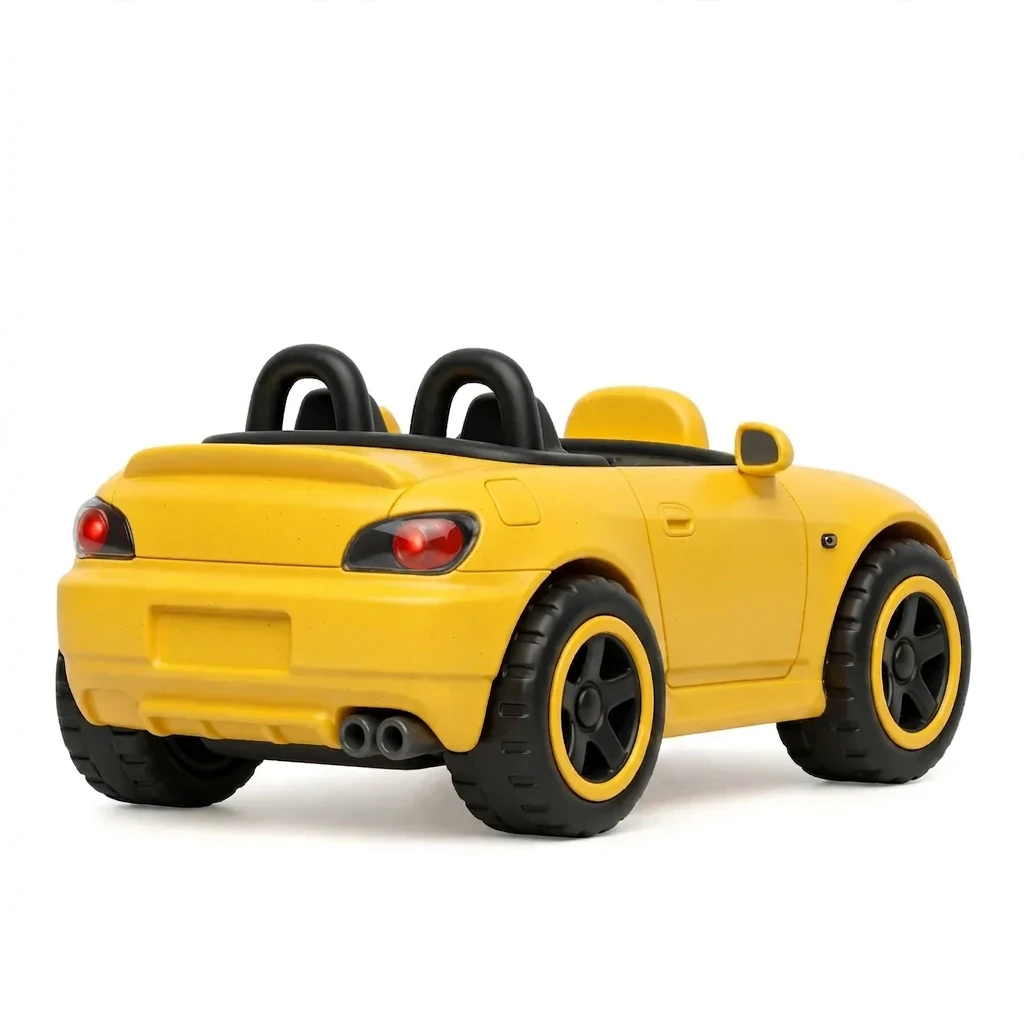
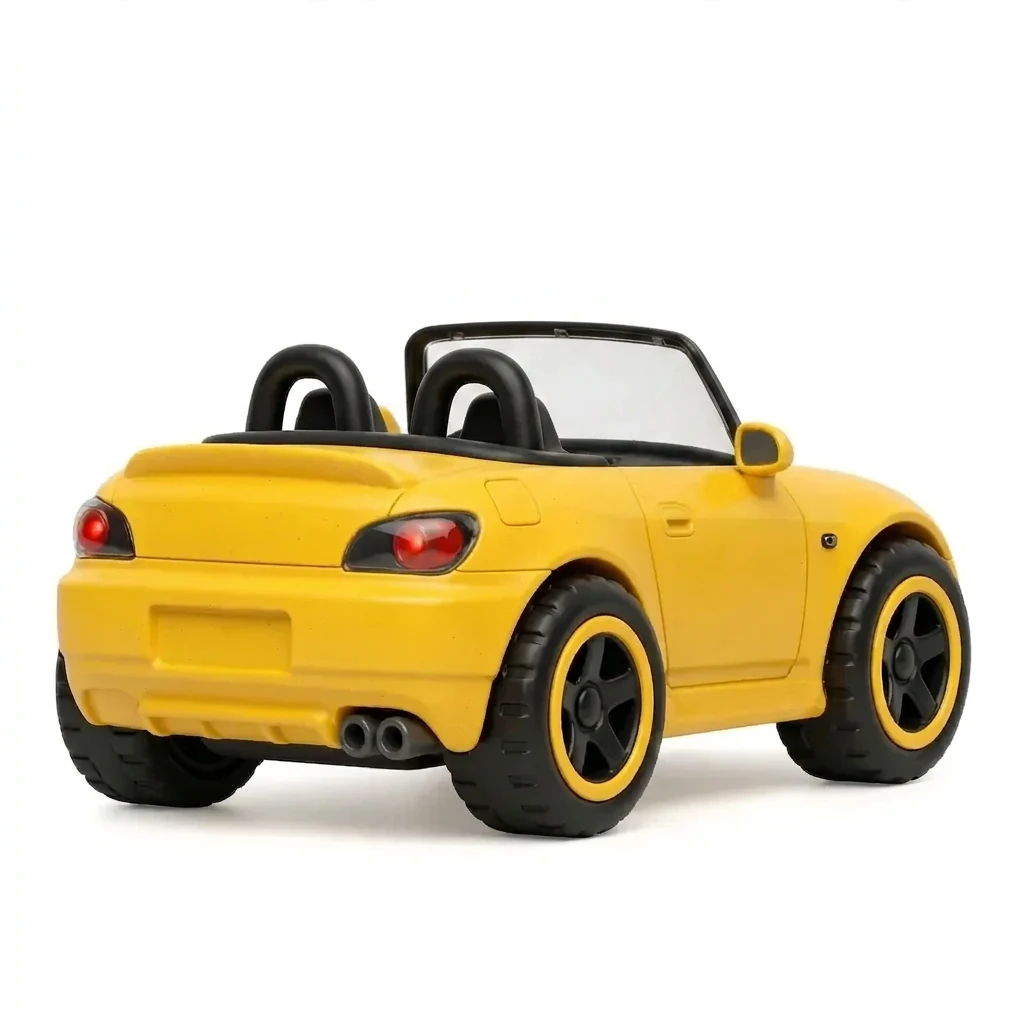
Precios nuevos, dorado garantizado en el pack completo, poster en hero escritorio y antes de FAQ en movil, R34 reencuadrado y parabrisas del S2000

Changed region(s): [[0.375, 0.3125, 0.7188, 0.4688], [0.4375, 0.375, 0.4688, 0.4375]]

diff --git a/public/index.html b/public/index.html
@@ -4,7 +4,7 @@
 <meta charset="UTF-8">
 <meta name="viewport" content="width=device-width, initial-scale=1, viewport-fit=cover">
 <title>SSCARS Garage Collections · Leyendas JDM · 15 figuras de colección</title>
-<meta name="description" content="Colección limitada de 15 figuras JDM en resina a color, 7 cm. Caja sorpresa sin repetidos dentro del pack y versión Gold Chrome secreta 1/500. Desde 29,90 € con envío gratuito.">
+<meta name="description" content="Colección limitada de 15 figuras JDM en resina a color, 7 cm. Caja sorpresa sin repetidos dentro del pack y versión Gold Chrome secreta 1/500. Desde 24,95 € con envío gratuito.">
 <link rel="canonical" href="https://sscarsgarage.roadshop.online/">
 <meta name="theme-color" content="#FFFFFF">
 <meta name="robots" content="index,follow">
@@ -12,7 +12,7 @@
 <meta property="og:locale" content="es_ES">
 <meta property="og:site_name" content="SSCARS Garage Collections">
 <meta property="og:title" content="Leyendas JDM · 15 figuras de colección">
-<meta property="og:description" content="Caja sorpresa de figuras JDM en resina a color. Sin repetidos dentro del pack. Gold Chrome 1/500. Desde 29,90 €.">
+<meta property="og:description" content="Caja sorpresa de figuras JDM en resina a color. Sin repetidos dentro del pack. Gold Chrome 1/500. Desde 24,95 €.">
 <meta property="og:url" content="https://sscarsgarage.roadshop.online/">
 <meta property="og:image" content="https://sscarsgarage.roadshop.online/images/r34-front.webp">
 <meta name="twitter:card" content="summary_large_image">
@@ -310,6 +310,19 @@ footer img.flogo{width:120px;margin:0 auto 20px}
   .hero .l2{font-size:clamp(37px,12.4vw,56px)}
   .hero .l2::after{height:8px;margin-top:12px}
 }
+
+/* ---- poster del hero: solo escritorio ---- */
+.hbody{display:grid;grid-template-columns:minmax(0,1fr);gap:26px}
+.hero-art{display:none}
+@media(min-width:1000px){
+  .hbody{grid-template-columns:minmax(0,1fr) 330px;gap:52px;align-items:start}
+  .hero-art{display:block}
+  .hero-art img{width:100%;height:auto;border-radius:22px;box-shadow:0 24px 60px rgba(0,0,0,.18)}
+}
+/* ---- poster en movil: antes de preguntas frecuentes ---- */
+.poster-mov{padding:0 0 clamp(40px,7vw,60px)}
+.poster-mov img{width:100%;max-width:520px;margin:0 auto;border-radius:22px;box-shadow:0 18px 44px rgba(0,0,0,.16)}
+@media(min-width:1000px){.poster-mov{display:none}}
 </style>
 </head>
 <body>
@@ -362,6 +375,8 @@ footer img.flogo{width:120px;margin:0 auto 20px}
 
       <h1><span class="l1">Leyendas JDM</span><span class="l2">15 iconos únicos</span></h1>
 
+      <div class="hbody">
+        <div>
       <p class="sub">Colección limitada y exclusiva de los deportivos más legendarios e icónicos de la cultura JDM motorsport. Compra tu caja sorpresa y completa esta colección única.</p>
 
       <div class="hctas">
@@ -375,6 +390,11 @@ footer img.flogo{width:120px;margin:0 auto 20px}
         <li><svg viewBox="0 0 24 24" aria-hidden="true"><path d="M12 2 15 9l7 .6-5.3 4.6L18.3 21 12 17.3 5.7 21l1.6-6.8L2 9.6 9 9z"/></svg><span><b>Gold Chrome</b> secreto, 1 de cada 500</span></li>
         <li><svg viewBox="0 0 24 24" aria-hidden="true"><rect x="4" y="10" width="16" height="11" rx="2"/><path d="M8 10V7a4 4 0 0 1 8 0v3"/></svg><span><b>Pago seguro</b> con Stripe</span></li>
       </ul>
+        </div>
+        <div class="hero-art">
+          <img src="images/poster-r34.webp" width="507" height="900" alt="SSCARS Garage Collections" loading="eager">
+        </div>
+      </div>
     </div>
   </section>
 
@@ -476,7 +496,7 @@ footer img.flogo{width:120px;margin:0 auto 20px}
       <div class="goldrow">
         <div>
           <div class="g1">Gold Chrome</div>
-          <p class="g2" style="margin:6px 0 0">Cualquiera de los 15 puede aparecer en dorado cromado. Sustituye a la versión en color y no está garantizado en ningún pack: es puro azar.</p>
+          <p class="g2" style="margin:6px 0 0">Cualquiera de los 15 puede aparecer en dorado cromado. Sustituye a la versión en color y es puro azar en las cajas sueltas y en los packs de 3 y 6. La única excepción es el pack de colección completa, que garantiza al menos uno.</p>
         </div>
         <div style="text-align:right"><div class="g3">0,2%</div><div class="tier-s" style="color:#888">1 de cada 500</div></div>
       </div>
@@ -499,6 +519,11 @@ footer img.flogo{width:120px;margin:0 auto 20px}
     </div>
   </section>
 
+  <!-- ============ POSTER (solo movil) ============ -->
+  <section class="poster-mov">
+    <div class="wrap"><img src="images/poster-r34.webp" width="507" height="900" alt="SSCARS Garage Collections" loading="lazy"></div>
+  </section>
+
   <!-- ============ FAQ ============ -->
   <section id="faq">
     <div class="wrap">
@@ -507,7 +532,7 @@ footer img.flogo{width:120px;margin:0 auto 20px}
       <div style="margin-top:24px">
         <details open><summary>¿Puedo repetir modelo?</summary><p>Dentro del mismo pack no hay repetidos. Entre packs diferentes podrías repetir, pero el sistema intenta minimizarlo. La versión Gold Chrome sustituye a la de color.</p></details>
         <details><summary>¿Puedo elegir qué figura quiero?</summary><p>No, y esa es la gracia. El modelo se asigna de forma aleatoria en el momento del pedido. Si los quieres todos sin azar, el pack de colección completa incluye las 15.</p></details>
-        <details><summary>¿Todos tienen versión dorada?</summary><p>Sí. Los 15 modelos tienen versión Gold Chrome secreta, con 1/500 de probabilidad por caja.</p></details>
+        <details><summary>¿Todos tienen versión dorada?</summary><p>Sí. Los 15 modelos tienen versión Gold Chrome secreta, con 1/500 de probabilidad por caja. El pack de colección completa garantiza al menos uno.</p></details>
         <details><summary>¿Qué incluye cada caja?</summary><p>La figura de 7 cm en resina a color, y nada más. Viene protegida dentro de una caja completamente cerrada, sin ninguna imagen ni pista de la pieza que hay dentro: hasta que la abres, no sabes cuál te ha tocado.</p></details>
         <details><summary>¿Cuánto cuesta el envío?</summary><p>El envío es gratuito. Recibirás el número de seguimiento por email en cuanto tu pedido salga.</p></details>
         <details><summary>¿Cuándo dejará de estar disponible?</summary><p>Cuando el contador llegue a 0, esta colección no volverá a fabricarse. Jamás.</p></details>
@@ -540,7 +565,7 @@ footer img.flogo{width:120px;margin:0 auto 20px}
 
 <!-- STICKY MOBILE -->
 <div id="sticky">
-  <div class="sp">Desde<b>29,90€</b></div>
+  <div class="sp">Desde<b>24,95€</b></div>
   <a href="#coleccion" class="btn-ghost s-ghost">Ver colección</a>
   <a href="#packs" class="btn-buy s-buy">Quiero mi caja</a>
 </div>
@@ -597,14 +622,14 @@ const MODELOS = [
 ];
 
 const PACKS = [
-  {id:'box1', title:'1 Caja', units:'1 unidad', qtyUnits:1, price:29.90,  best:false,
+  {id:'box1', title:'1 Caja', units:'1 unidad', qtyUnits:1, price:24.95,  best:false,
    feats:['1 figura sorpresa a color','Caja cerrada, sin pistas','Posibilidad Gold 1/500','Envío gratuito']},
-  {id:'box3', title:'Pack 3 Cajas', units:'3 unidades', qtyUnits:3, price:79.90, best:true,
+  {id:'box3', title:'Pack 3 Cajas', units:'3 unidades', qtyUnits:3, price:69.95, best:true,
    feats:['3 figuras sorpresa a color','Sin repetidos garantizado','3 cajas cerradas sorpresa','Envío gratuito']},
-  {id:'box6', title:'Pack 6 Cajas', units:'6 unidades', qtyUnits:6, price:149.90, best:false,
+  {id:'box6', title:'Pack 6 Cajas', units:'6 unidades', qtyUnits:6, price:129.95, best:false,
    feats:['6 figuras sorpresa a color','Sin repetidos garantizado','6 cajas cerradas sorpresa','Envío gratuito']},
-  {id:'full', title:'Pack Colección Completa', units:'15 unidades + bonus', qtyUnits:15, price:699.90, best:false,
-   feats:['Las 15 leyendas JDM','0 repetidos · colección 100%','Envío gratuito']}
+  {id:'full', title:'Pack Colección Completa', units:'15 unidades + bonus', qtyUnits:15, price:669.95, best:false,
+   feats:['Las 15 leyendas JDM','0 repetidos · colección 100%','Al menos 1 Gold Chrome garantizado','Envío gratuito']}
 ];
 
 const eur = n => n.toFixed(2).replace('.', ',') + '€';
@@ -850,8 +875,8 @@ tick(); setInterval(tick, 1000);
   "offers":{
     "@type":"AggregateOffer",
     "priceCurrency":"EUR",
-    "lowPrice":"29.90",
-    "highPrice":"699.90",
+    "lowPrice":"24.95",
+    "highPrice":"669.95",
     "offerCount":"4",
     "availability":"https://schema.org/InStock",
     "url":"https://sscarsgarage.roadshop.online/#packs",
@@ -866,7 +891,7 @@ tick(); setInterval(tick, 1000);
   "mainEntity":[
     {"@type":"Question","name":"¿Puedo repetir modelo?","acceptedAnswer":{"@type":"Answer","text":"Dentro del mismo pack no hay repetidos. Entre packs diferentes podrías repetir, pero el sistema intenta minimizarlo."}},
     {"@type":"Question","name":"¿Puedo elegir qué figura quiero?","acceptedAnswer":{"@type":"Answer","text":"No. El modelo se asigna de forma aleatoria en el momento del pedido. El pack de colección completa incluye las 15."}},
-    {"@type":"Question","name":"¿Todos tienen versión dorada?","acceptedAnswer":{"@type":"Answer","text":"Sí, los 15 modelos tienen versión Gold Chrome secreta con 1/500 de probabilidad por caja."}},
+    {"@type":"Question","name":"¿Todos tienen versión dorada?","acceptedAnswer":{"@type":"Answer","text":"Sí, los 15 modelos tienen versión Gold Chrome secreta con 1/500 de probabilidad por caja. El pack de colección completa garantiza al menos uno."}},
     {"@type":"Question","name":"¿Cuánto cuesta el envío?","acceptedAnswer":{"@type":"Answer","text":"El envío es gratuito."}}
   ]
 }

diff --git a/api/order.js b/api/order.js
@@ -52,8 +52,14 @@ export function elegirSinRepes(cantidad, { packFull = false } = {}) {
     out.push(sacarUno(pool));
   }
 
-  // El pack completo entrega los 15; el dorado sigue siendo azar puro, nunca garantizado.
-  return out.map(m => ({ ...m, esGold: Math.random() < GOLD_PROB }));
+  const conGold = out.map(m => ({ ...m, esGold: Math.random() < GOLD_PROB }));
+
+  // El pack de coleccion completa garantiza AL MENOS un Gold Chrome.
+  // Si el azar no ha dado ninguno, se fuerza uno al azar entre las figuras del pedido.
+  if (packFull && !conGold.some(f => f.esGold)) {
+    conGold[Math.floor(Math.random() * conGold.length)].esGold = true;
+  }
+  return conGold;
 }
 
 const MODEL_EXT = process.env.MODEL_EXT || 'stl';
